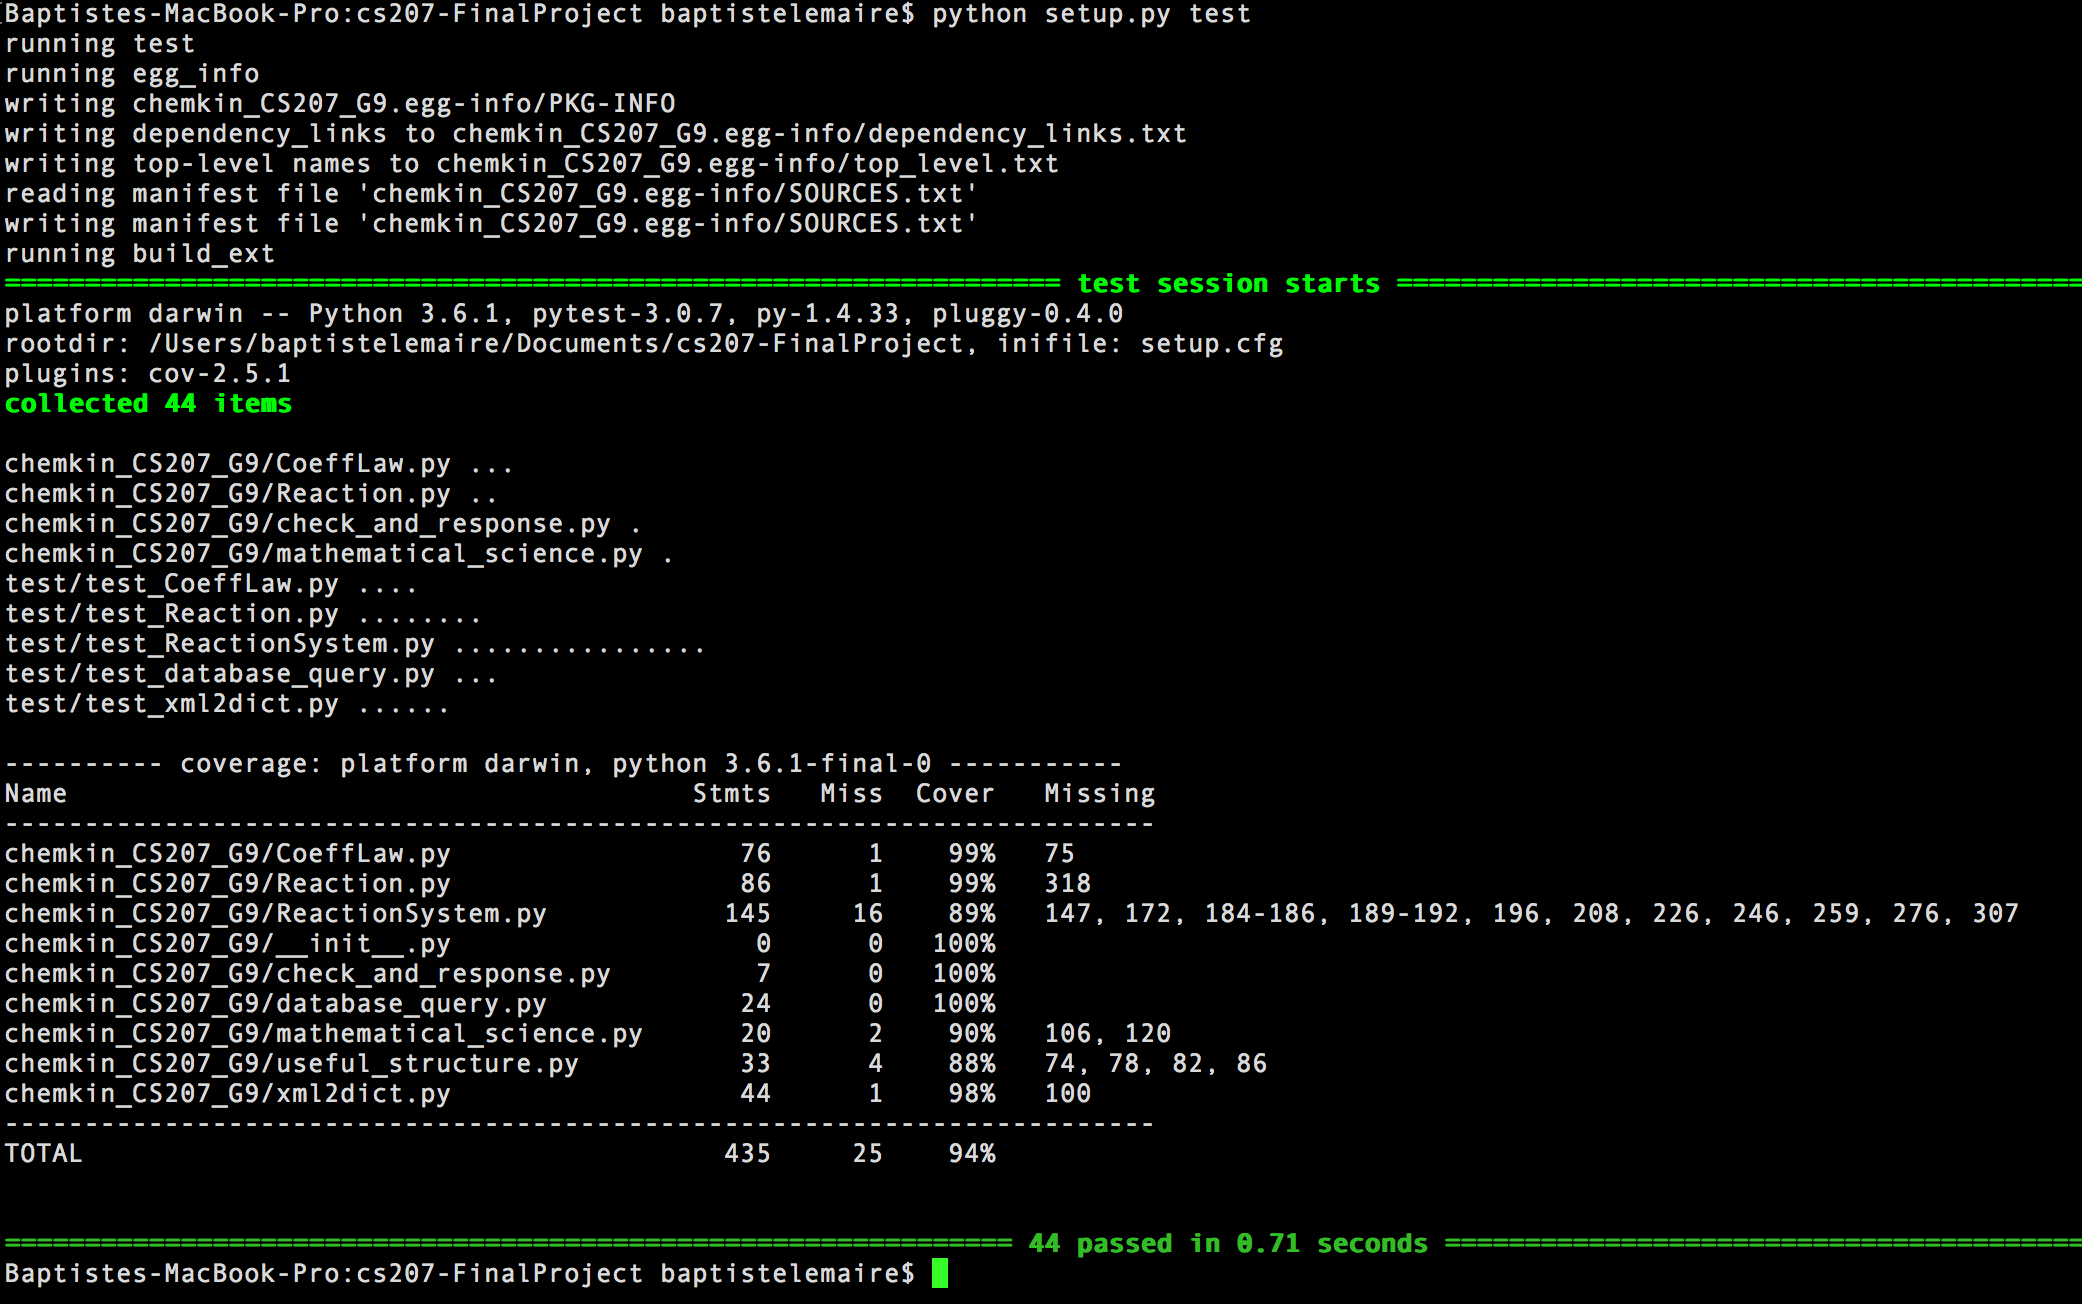
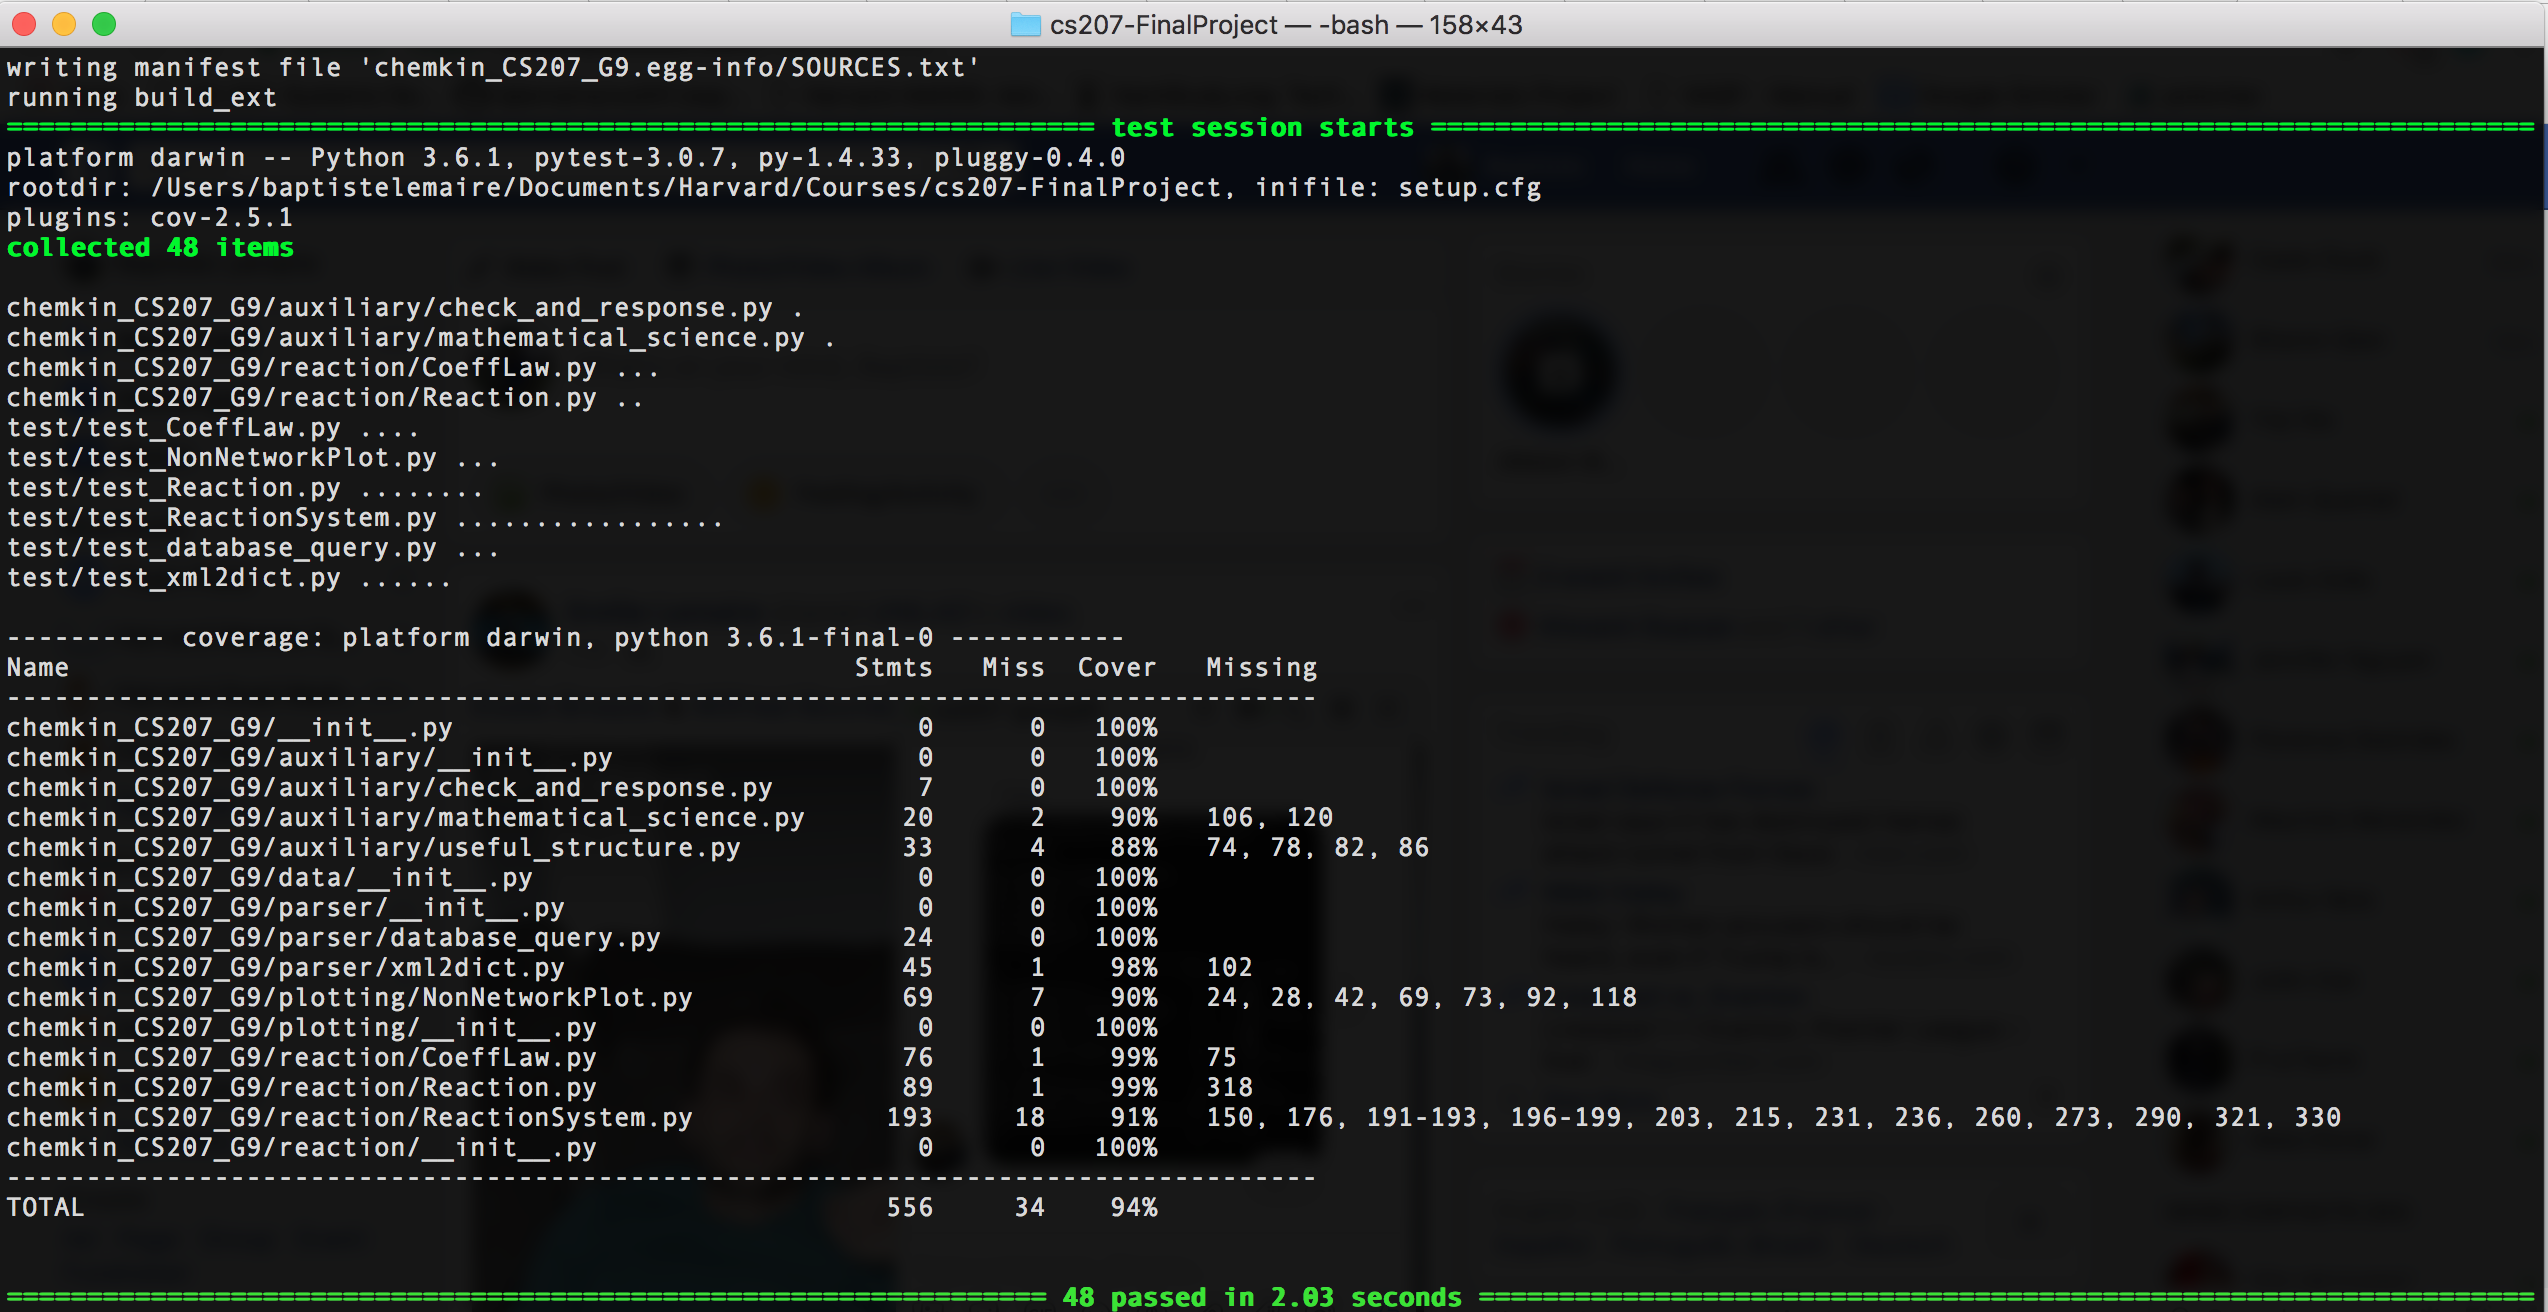
Changes in README.md

diff --git a/README.md b/README.md
@@ -90,7 +90,7 @@ This gives us a 1 dimensional list with one element per reaction.
 
 For most cases one may want to import the reactions from other files instead of typing them in manually. We currently provide one method to allow users import from formatted `.xml` file:
 ```
-from chemkin_CS207_G9.chemkin.parser.xml2dict import xml2dict
+from chemkin_CS207_G9.parser.xml2dict import xml2dict
 
 reader = xml2dict()
 reader.parse('rxns_reversible.xml')
@@ -107,7 +107,7 @@ Along with the package there are two additional files - one is `nasa_thermo.sqli
 ```
 import os
 import chemkin_CS207_G9
-BASE_DIR = os.path.dirname(os.path.abspath(chemkin_CS207_G9.chemkin.data.__file__))
+BASE_DIR = os.path.dirname(os.path.abspath(chemkin_CS207_G9.data.__file__))
 
 path_xml = os.path.join(BASE_DIR, 'rxns_reversible.xml') # path to the .xml file
 path_sql = os.path.join(BASE_DIR, 'nasa_thermo.sqlite')  # path to the .sqlite file
